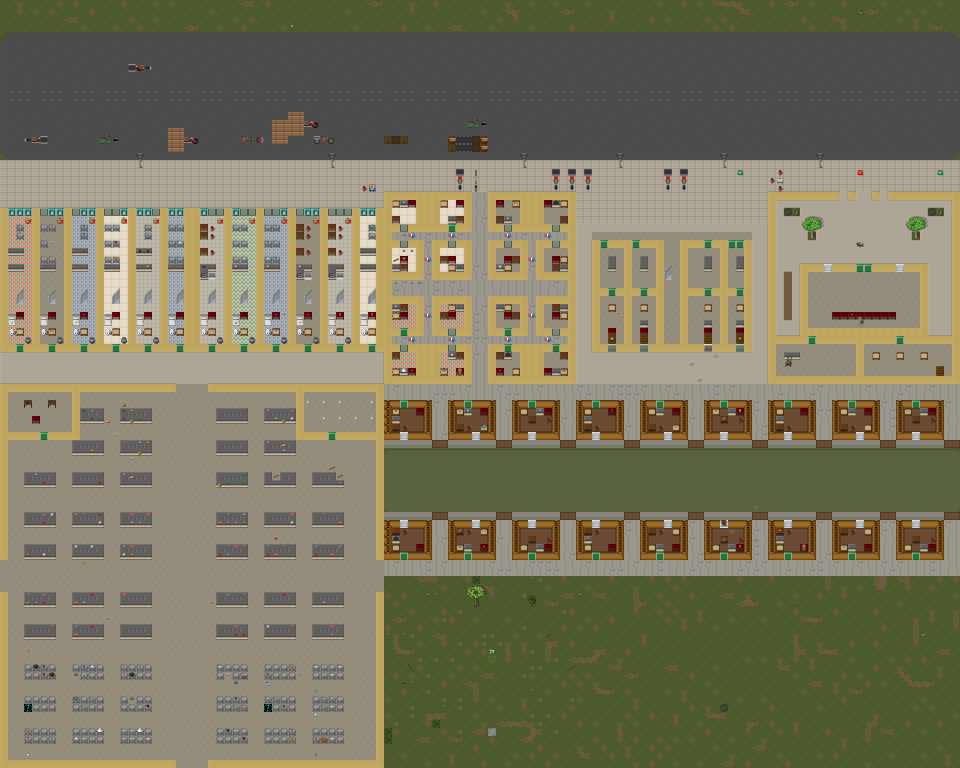
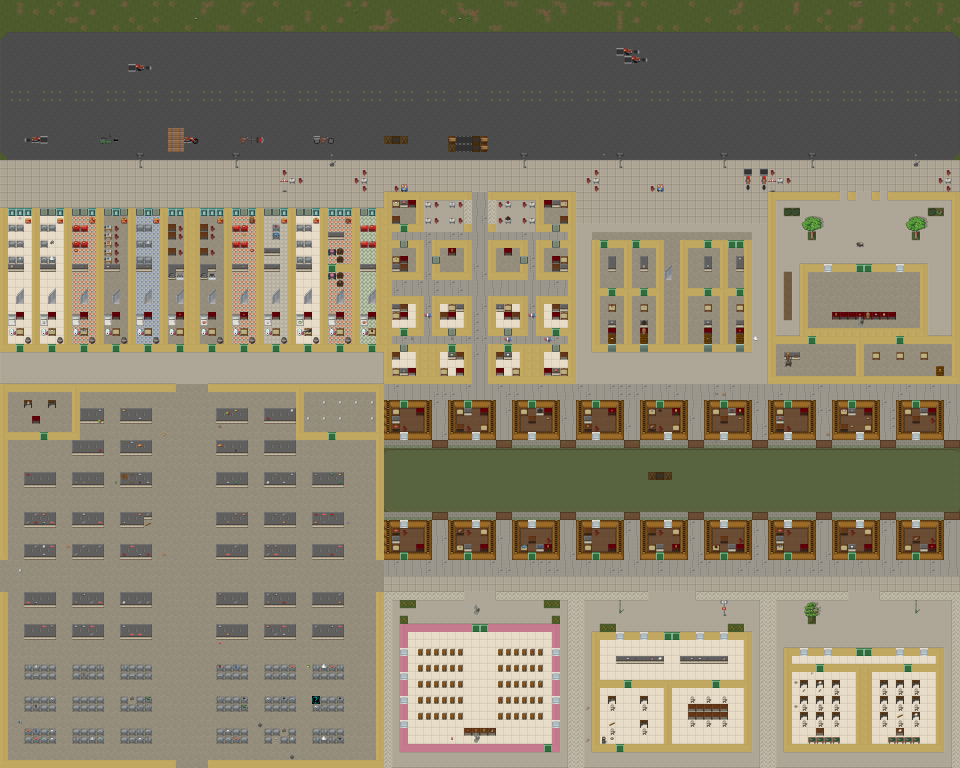
saigon: CPU sprite, refreshed previews and status after B8h
processor (internet-café loot) had no UltimateCataclysm sprite; drawn.
Regenerated per-id status, drawn and scene previews (canal, landmarks)
and the plan/summary status.

diff --git a/art/saigon/drawn/gear.py b/art/saigon/drawn/gear.py
@@ -209,3 +209,17 @@ def wooden_post_short( c ):
     c.line( 5, 15, 15, 5, rgb( '#b07a48' ) )
     c.line( 14, 4, 16, 5, rgb( '#d8b07a' ) )                     # splintered end
     finish( c )
+
+
+@sprite( 'processor', 20, 20 )
+def processor( c ):
+    # a CPU: green package, silver heat spreader, gold pins (internet-café loot)
+    c.rect( 5, 6, 14, 15, rgb( '#2e7a4a' ) )
+    c.rect( 7, 8, 12, 13, rgb( '#c8ccd0' ) )
+    c.line( 7, 8, 12, 8, rgb( '#eef2f4' ) )
+    for k in range( 6, 14, 2 ):
+        c.px( k, 5, rgb( '#e8c040' ) )
+        c.px( k, 16, rgb( '#e8c040' ) )
+        c.px( 4, k + 1, rgb( '#e8c040' ) )
+        c.px( 15, k + 1, rgb( '#e8c040' ) )
+    finish( c )

diff --git a/doc/saigon/art/SPRITE_REVISION_SUMMARY.md b/doc/saigon/art/SPRITE_REVISION_SUMMARY.md
@@ -1,7 +1,7 @@
 # Saigon sprite revision summary
 
 This lists the graphics that need Saigon art: what is done, what keeps the original art, and what is left.
-Status as of 2026-10-04, after units G9–G28 and the canal (B8f) (see `doc/saigon/PROGRESS.md`). The per-id list is [`sprite_revision_list.csv`](sprite_revision_list.csv), regenerated by `python3 tools/saigon/art/revision_list.py`.
+Status as of 2026-10-04, after units G9–G29, the canal (B8f) and the landmarks (B8h) (see `doc/saigon/PROGRESS.md`). The per-id list is [`sprite_revision_list.csv`](sprite_revision_list.csv), regenerated by `python3 tools/saigon/art/revision_list.py`.
 
 ## Tilesets in use
 
@@ -60,7 +60,7 @@ No T1 or T2 sprite is left to do. The work after G15 is quality, not coverage. T
 Previews:
 - code-drawn: [`drawn_preview_small.png`](drawn_preview_small.png) (icons), [`drawn_preview_world.png`](drawn_preview_world.png) (terrain and furniture), [`drawn_preview_trees.png`](drawn_preview_trees.png);
 - derived: [`derived_preview.png`](derived_preview.png), [`derived_overmap_preview.png`](derived_overmap_preview.png);
-- a real generated block: [`scene_preview.png`](scene_preview.png), [`scene_preview_street.png`](scene_preview_street.png), [`scene_preview_canal.png`](scene_preview_canal.png).
+- a real generated block: [`scene_preview.png`](scene_preview.png), [`scene_preview_street.png`](scene_preview_street.png), [`scene_preview_canal.png`](scene_preview_canal.png), [`scene_preview_landmarks.png`](scene_preview_landmarks.png).
 
 ## Format rules
 

diff --git a/doc/saigon/art/SPRITE_PLAN.md b/doc/saigon/art/SPRITE_PLAN.md
@@ -200,7 +200,7 @@ Ultica_iso equivalents of everything, once renderer phase R3 starts. Out of scop
 | G26 | **Clothing:** áo dài, áo thun, quần tây, áo khoác chống nắng, nón kết, dép lào, uniform, áo trắng (icons + 16 overlays) | 8 | 24 | D/R/H | done |
 | G27 | **Canal:** kênh water + embankment, ghe canopy, flood water (with B8f canal content) | 3–4 | ~20 | D | done with B8f (canal water, embankment, tin roofs, icons); ghe canopy and flood water left |
 | G28 | **Animals:** chó ta, mèo, gà, chuột cống (+ snake and lizard) | 4–6 | ~8 | R/D/H | done |
-| G29 | **Map icons** for new landmarks | 11 | 11 | R/D | waits for the landmark buildings |
+| G29 | **Map icons** for new landmarks | 11 | 11 | R/D | done for the church, ward office and school (B8h-2); gold shop, net café and karaoke are shophouse lots (B8h-1) |
 | H1 | **Hand-art pass (artist):** Saigon zombies ×5, NPC outfits, áo dài overlay, iconic street objects polish | – | ~40 | **H** | for an artist |
 
 **Total:** about 100 new game ids and about 260 new sprites. About 80% can be code-drawn or derived (G18–G29). The hand-art pass H1 is where a pixel artist adds the most.
